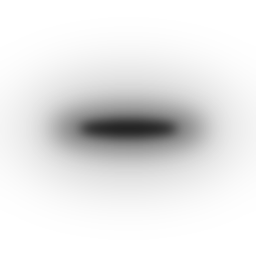
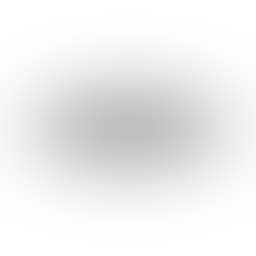
Float models load from a copy on the card (3x faster opens), base layers first, boxes hidden while loading; soft static blob shadow
The models are copied from app0:/DATA to ux0:/data/RetroFlowFloat/DATA on first run (one
step per frame, stamped by a content hash rebuild_float.py writes into FLOAT.DATA_VERSION);
app0 opens cost ~75 ms a file, the card ~30 ms. Each kind becomes drawable after its base
layers (about 2 s), the highlight sets fill in after. Items whose models are not in yet draw
only the blob, never the box (the box stays during the one-off copy). The shadow is a wider,
fainter blob that no longer turns with the item. Loading pauses on input and only runs while
the launcher's cover thread is idle. Files for switched-off features are not loaded.

Changed region(s): [[0.1875, 0.375, 0.8125, 0.625]]

diff --git a/fork/floating-media/gen.py b/fork/floating-media/gen.py
@@ -1223,16 +1223,10 @@ def shadow():
     w, dpt = 1.0, 0.55
     m.quad(((-w, 0, -dpt), (0, 0)), ((w, 0, -dpt), (1, 0)), ((w, 0, dpt), (1, 1)), ((-w, 0, dpt), (0, 1)))
     m.write("float_shadow")
-    # contact shadow: a wide soft halo plus a tight dark core where the item meets the floor
+    # one soft static blob under the item: wide, faint, no core (it never turns with the item)
     img = Image.new("RGBA", (256, 256), (0, 0, 0, 0))
-    ImageDraw.Draw(img).ellipse([24, 84, 232, 172], fill=(0, 0, 0, 70))
-    img = img.filter(ImageFilter.GaussianBlur(30))
-    mid = Image.new("RGBA", (256, 256), (0, 0, 0, 0))
-    ImageDraw.Draw(mid).ellipse([52, 108, 204, 148], fill=(0, 0, 0, 120))
-    img.alpha_composite(mid.filter(ImageFilter.GaussianBlur(12)))
-    core = Image.new("RGBA", (256, 256), (0, 0, 0, 0))
-    ImageDraw.Draw(core).ellipse([80, 120, 176, 136], fill=(0, 0, 0, 190))
-    img.alpha_composite(core.filter(ImageFilter.GaussianBlur(5)))
+    ImageDraw.Draw(img).ellipse([30, 92, 226, 164], fill=(0, 0, 0, 95))
+    img = img.filter(ImageFilter.GaussianBlur(34))
     img.save(f"{OUT}/float_shadow.png")
 
 

diff --git a/fork/floating-media/viewport/build.py b/fork/floating-media/viewport/build.py
@@ -31,7 +31,13 @@ Render = {
     drawModel = function(m, x, y, z, rx, ry, rz) PY_DRAW(m.path, tostring(m.tex), x, y, z, rx, ry, rz) end,
     setCamera = function() end,
 }
-System = { getAsyncState = function() return 1 end, doesFileExist = function(p)
+FREAD = 0
+System = { getAsyncState = function() return 1 end, createDirectory = function() end, copyFile = function() end,
+    openFile = function() return 1 end, writeFile = function() end, closeFile = function() end,
+    listDirectory = function() return {} end, readFile = function() return "FLOAT_DATA_VERSION_PLACEHOLDER" end,
+    doesFileExist = function(p)
+    if p:find("version%.txt$") then return true end
+    p = p:gsub("^ux0:/data/RetroFlowFloat/DATA/", "app0:/DATA/")
     local rel = p:match("^app0:/DATA/(.*)$")
     if rel and DATA_DIR then local f = io.open(DATA_DIR .. "/" .. rel, "rb"); if f then f:close(); return true end end
     return false

diff --git a/fork/floating-media/rebuild_float.py b/fork/floating-media/rebuild_float.py
@@ -13,6 +13,11 @@ from make_sidebyside import patch_index
 OLD_VPK, INDEX, MEDIA, OUT = sys.argv[1:5]
 report = []
 index = patch_index(open(INDEX, encoding="utf-8").read(), report)
+import hashlib
+h = hashlib.md5()
+for f in sorted(os.listdir(MEDIA)):
+    h.update(f.encode()); h.update(open(os.path.join(MEDIA, f), "rb").read())
+index = index.replace('FLOAT_DATA_VERSION_PLACEHOLDER', h.hexdigest()[:16])   # the card copy of DATA is refreshed only when the files change
 media = sorted(os.listdir(MEDIA))
 with zipfile.ZipFile(OLD_VPK) as src, zipfile.ZipFile(OUT + ".tmp", "w", zipfile.ZIP_DEFLATED) as dst:
     kept = 0
